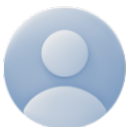
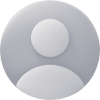
[fix] Drawer Style

diff --git a/app/(protected)/edit.js b/app/(protected)/edit.js
@@ -1,0 +1,146 @@
+import { LinearGradient } from 'expo-linear-gradient';
+import { useRouter } from 'expo-router';
+import { useState } from 'react';
+import { SafeAreaView, StyleSheet, Text, TouchableOpacity, View } from 'react-native';
+import DropDownPicker from 'react-native-dropdown-picker';
+
+export default function Edit() {
+  const router = useRouter();
+
+  const [openInstituicao, setOpenInstituicao] = useState(false);
+  const [instituicao, setInstituicao] = useState(null);
+  const [itensInstituicao, setItensInstituicao] = useState([
+    { label: 'Escola A', value: 'A' },
+    { label: 'Escola B', value: 'B' },
+  ]);
+
+  const [openPonto, setOpenPonto] = useState(false);
+  const [ponto, setPonto] = useState(null);
+  const [itensPonto, setItensPonto] = useState([
+    { label: 'Ponto 1', value: '1' },
+    { label: 'Ponto 2', value: '2' },
+  ]);
+
+  return (
+    <SafeAreaView style={styles.container}>
+      {/* Card principal */}
+      <View style={styles.card}>
+        <TouchableOpacity style={styles.cardHeader}>
+          <Text style={styles.cardHeaderText}>Editar - Escola e Ponto</Text>
+        </TouchableOpacity>
+
+        <Text style={styles.label}>Selecione sua Instituição de ensino</Text>
+        <View style={{ zIndex: 2 }}> 
+          <DropDownPicker
+            open={openInstituicao}
+            value={instituicao}
+            items={itensInstituicao}
+            setOpen={setOpenInstituicao}
+            setValue={setInstituicao}
+            setItems={setItensInstituicao}
+            placeholder="Selecione"
+            style={styles.selectBox}
+            dropDownContainerStyle={{ borderRadius: 20 }}
+            textStyle={{ color: '#0f5176', fontFamily: 'LeagueSpartan-Regular' }}
+          />
+        </View>
+
+        <Text style={[styles.label, { marginTop: 20 }]}>Selecione seu Ponto</Text>
+        <View style={{ zIndex: 1 }}>
+          <DropDownPicker
+            open={openPonto}
+            value={ponto}
+            items={itensPonto}
+            setOpen={setOpenPonto}
+            setValue={setPonto}
+            setItems={setItensPonto}
+            placeholder="Selecione"
+            style={styles.selectBox}
+            dropDownContainerStyle={{ borderRadius: 20 }}
+            textStyle={{ color: '#0f5176', fontFamily: 'LeagueSpartan-Regular' }}
+          />
+        </View>
+
+        <TouchableOpacity style={styles.saveButton}>
+          <Text style={styles.saveText}>Salvar</Text>
+        </TouchableOpacity>
+      </View>
+
+      {/* Botão voltar */}
+      <TouchableOpacity style={styles.voltarButton} onPress={() => router.back()}>
+        <LinearGradient colors={['#0f5176', '#0f5176']} style={styles.voltarGradient}>
+          <Text style={styles.voltarText}>Voltar</Text>
+        </LinearGradient>
+      </TouchableOpacity>
+    </SafeAreaView>
+  );
+}
+
+const styles = StyleSheet.create({
+  container: {
+    flex: 1,
+    backgroundColor: '#F2F3F5',
+    alignItems: 'center',
+  },
+  card: {
+    backgroundColor: '#0f5176',
+    borderRadius: 12,
+    paddingVertical: 20,
+    paddingHorizontal: 16,
+    width: '85%',
+    marginTop: 40,
+  },
+  cardHeader: {
+    backgroundColor: '#b6c8d6',
+    borderRadius: 20,
+    paddingVertical: 8,
+    alignSelf: 'center',
+    paddingHorizontal: 20,
+    marginBottom: 20,
+  },
+  cardHeaderText: {
+    color: '#0f5176',
+    fontFamily: 'LeagueSpartan-Bold',
+    fontSize: 14,
+  },
+  label: {
+    color: '#fff',
+    fontFamily: 'LeagueSpartan-Regular',
+    marginBottom: 6,
+    fontSize: 13,
+  },
+  selectBox: {
+    backgroundColor: '#e8f0f8',
+    borderRadius: 20,
+    borderWidth: 0,
+  },
+  saveButton: {
+    backgroundColor: '#e8f0f8',
+    borderRadius: 20,
+    paddingVertical: 6,
+    width: 100,
+    alignSelf: 'center',
+    marginTop: 25,
+  },
+  saveText: {
+    textAlign: 'center',
+    fontFamily: 'LeagueSpartan-Bold',
+    color: '#0f5176',
+    fontSize: 14,
+  },
+  voltarButton: {
+    marginTop: 30,
+    borderRadius: 20,
+    overflow: 'hidden',
+  },
+  voltarGradient: {
+    paddingVertical: 8,
+    paddingHorizontal: 26,
+    borderRadius: 20,
+  },
+  voltarText: {
+    color: '#fff',
+    fontFamily: 'LeagueSpartan-Bold',
+    fontSize: 14,
+  },
+});

diff --git a/app/(protected)/_layout.js b/app/(protected)/_layout.js
@@ -1,12 +1,48 @@
 import { Ionicons } from '@expo/vector-icons';
+import AsyncStorage from '@react-native-async-storage/async-storage';
 import { DrawerContentScrollView, DrawerItemList } from '@react-navigation/drawer';
 import { useFonts } from 'expo-font';
+import { Image } from 'expo-image';
+import { router } from 'expo-router';
 import { Drawer } from 'expo-router/drawer';
 import { ActivityIndicator, Text, TouchableOpacity, View } from 'react-native';
 
 function CustomDrawerContent(props) {
+
+    const handleLogout = async () => {
+        await AsyncStorage.removeItem('userRA');
+        router.replace('/login');
+    };
+
     return (
         <View style={{ flex: 1 }}>
+            <View style={{ flex: 0.65, justifyContent: 'center', alignItems: 'center', backgroundColor: '#115f8c', marginBottom: 30 }}>
+                <Image
+                    source={require('../../assets/images/usuario.png')}
+                    style={{ width: 100, height: 100, borderRadius: 50, marginBottom: 10, borderColor: '#093f5d', borderWidth: 3 }}
+                />
+                <Text style={{ fontSize: 18, fontWeight: 'bold', color: '#000000ff' }}>Olá, Usuário</Text>
+            </View>
+            <View style={{ alignItems: 'center', marginBottom: 20 }}>
+                <Text style={{ fontSize: 16, fontWeight: 'bold', color: '#115f8c', textAlign: 'center', marginBottom: 20, fontFamily: 'LeagueSpartan-Bold', textTransform: 'uppercase', height: 32 }}>Instituição de Ensino</Text>
+                <Text style={{ fontSize: 16, fontWeight: 'bold', color: '#115f8c', textAlign: 'center', marginBottom: 20, fontFamily: 'LeagueSpartan-Bold' }}>Ponto de Onibus</Text>
+                <TouchableOpacity
+                    activeOpacity={0.8}
+                    onPress={() => router.push('/edit')}
+                    style={{
+                        alignItems: 'center',
+                        justifyContent: 'center',
+                        backgroundColor: '#d9e6ee',
+                        borderRadius: 50,
+                        height: 45,
+                        width: 120,
+                        marginBottom: 30,
+
+                    }}
+                >
+                    <Text style={{ margin: 16, fontSize: 18, color: '#115f8c', fontFamily: 'LeagueSpartan-Bold', fontWeight: 'bold' }}>Editar</Text>
+                </TouchableOpacity>
+            </View>
             <View style={{ flex: 1 }}>
                 <DrawerContentScrollView {...props} scrollEnabled={false}>
                     <DrawerItemList {...props} />
@@ -14,6 +50,7 @@ function CustomDrawerContent(props) {
             </View>
             <TouchableOpacity
                 activeOpacity={0.8}
+                onPress={handleLogout}
                 style={{
                     flexDirection: 'row',
                     alignItems: 'center',
@@ -66,7 +103,7 @@ export default function Layout() {
             drawerContent={(props) => <CustomDrawerContent {...props} />}
             screenOptions={{
                 drawerStyle: {
-                    width: 220,
+                    width: '60%',
                     borderRightColor: '#093f5d',
                     borderRightWidth: 4,
                 },
@@ -86,11 +123,13 @@ export default function Layout() {
                     fontWeight: 'bold',
                     textAlign: 'center',
                 },
+                headerTitle: 'Transporte+',
             }}
         >
-            <Drawer.Screen name="home" options={{ title: 'Mapa', headerTitle: 'Transporte+' }} />
-            <Drawer.Screen name="about" options={{ title: 'Perfil' }} />
+            <Drawer.Screen name="home" options={{ title: 'Mapa' }} />
+            <Drawer.Screen name="about" options={{ title: 'Sobre' }} />
             <Drawer.Screen name="config" options={{ title: 'Configurações' }} />
+            <Drawer.Screen name="edit" options={{ drawerItemStyle: { display: 'none' } }} />
         </Drawer>
 
     );

diff --git a/app/login.js b/app/login.js
@@ -22,8 +22,8 @@ const { height } = Dimensions.get('window');
 
 export default function Login() {
   const router = useRouter();
-  const [ra, setRA] = useState('');
-  const [senha, setSenha] = useState('');
+  const [ra, setRA] = useState('08101');
+  const [senha, setSenha] = useState('@mobilize123');
 
   const baseURL = "https://backend-mobilize-transporte.onrender.com";
   // const mockUsers = [
